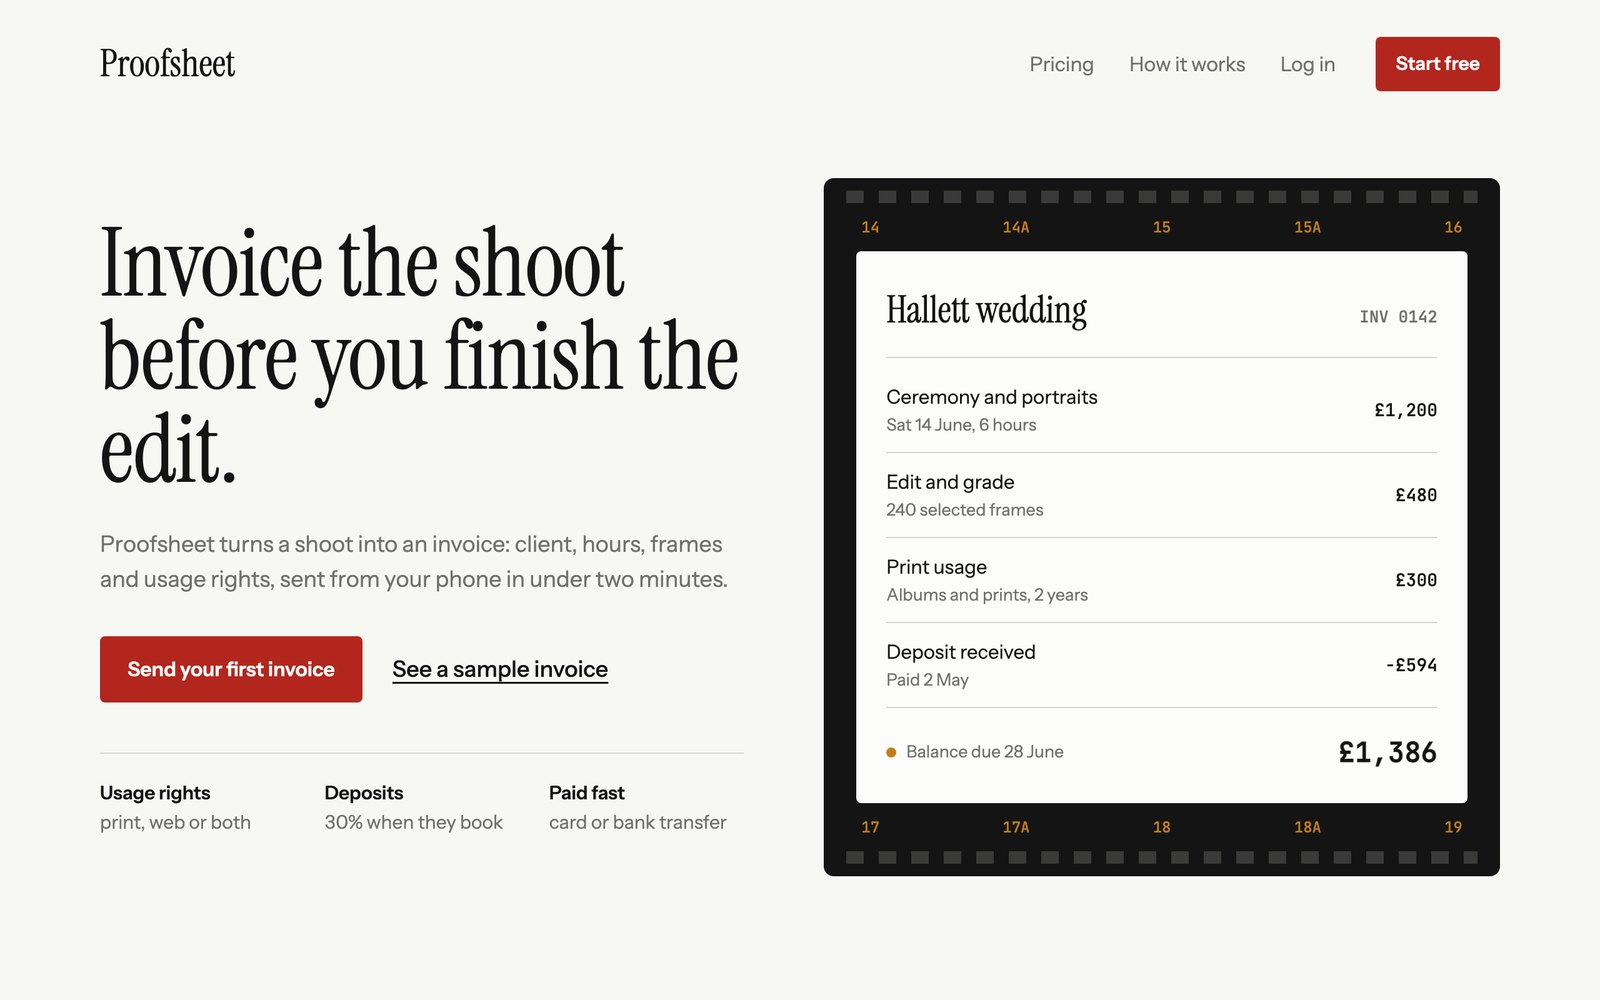
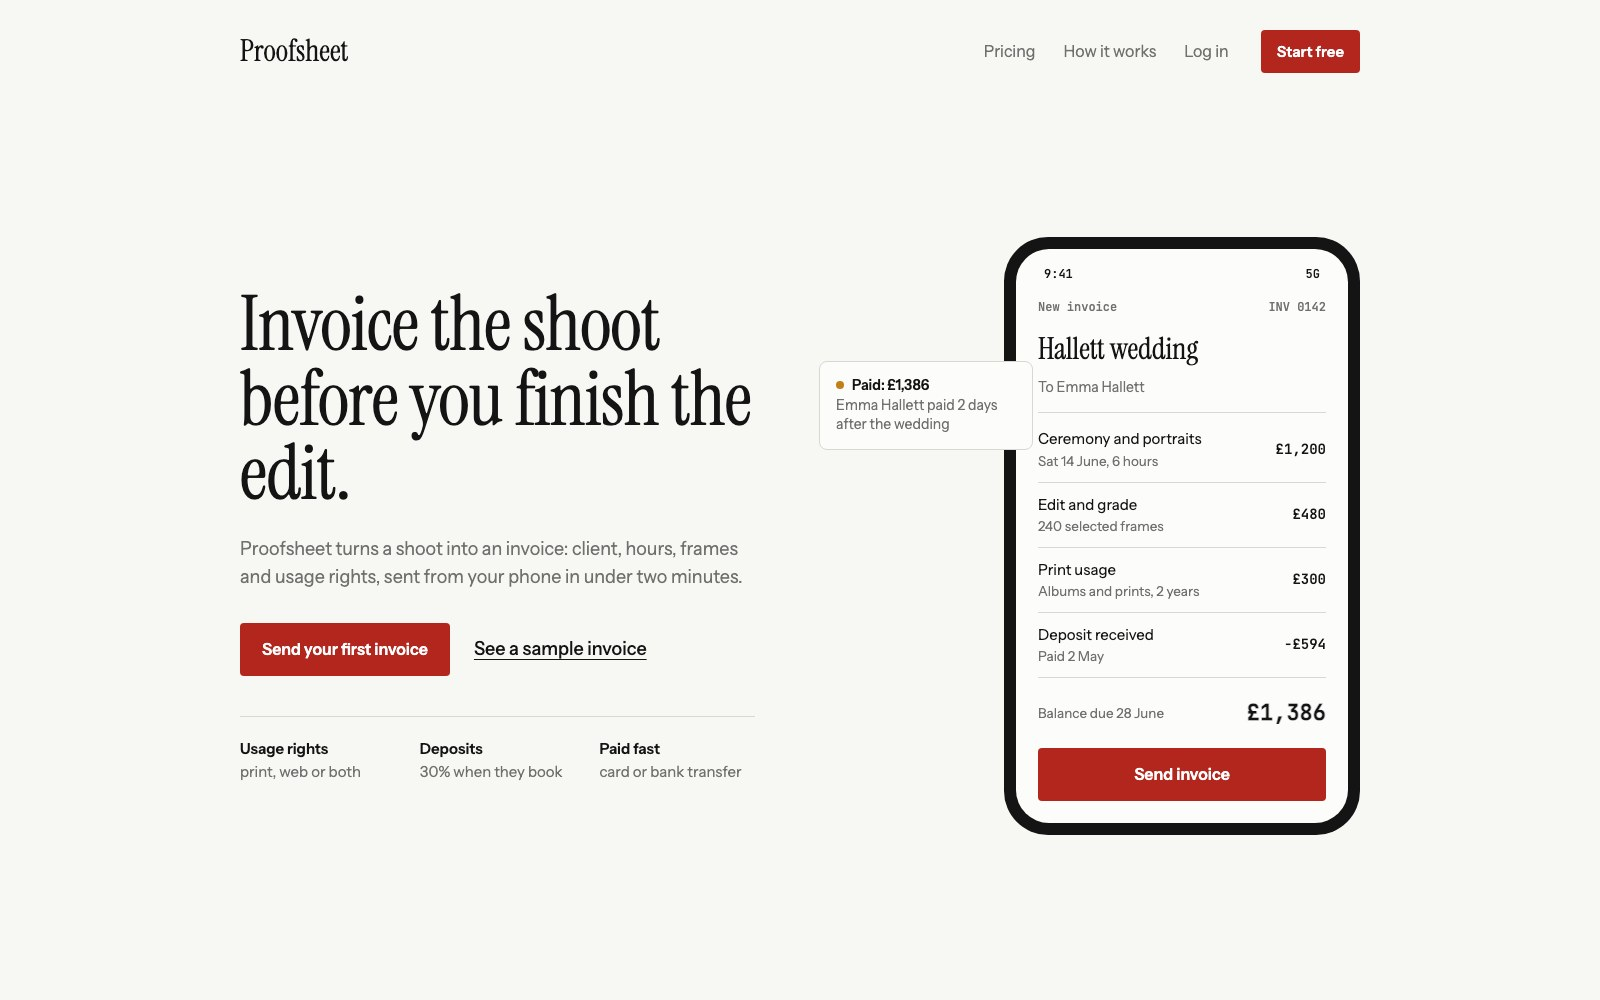
Show the invoice on a phone instead of a film strip
The headline promises an invoice sent from your phone, so the page now
shows exactly that: the invoice ready to send, and the payment coming back.

diff --git a/examples/photographer-invoicing/after.html b/examples/photographer-invoicing/after.html
@@ -23,30 +23,33 @@
     transition:transform var(--dur-quick) var(--ease-out),background-color var(--dur-quick) var(--ease-out)}
   .btn:hover{background:#8F1E18}.btn:active{transform:scale(.97)}
   .btn.small{padding:10px 16px;font-size:15px}
-  main{max-width:1200px;margin:0 auto;padding:40px 40px 64px;display:grid;grid-template-columns:1fr 1.05fr;gap:64px;align-items:center}
+  main{max-width:1200px;min-height:calc(100vh - 101px);margin:0 auto;padding:24px 40px 56px;display:grid;grid-template-columns:1fr 1.05fr;gap:64px;align-items:center}
   h1{font-family:var(--font-display);font-weight:400;font-size:76px;line-height:.98;letter-spacing:-.01em}
   .lede{margin-top:24px;max-width:30em;color:var(--muted)}
   .actions{margin-top:32px;display:flex;align-items:center;gap:24px}
   .actions a.text{font-weight:500;text-underline-offset:4px}
   ul.facts{list-style:none;padding:0;margin-top:40px;display:grid;grid-template-columns:repeat(3,1fr);gap:24px;font-size:15px;color:var(--muted);border-top:1px solid var(--line);padding-top:20px}
   ul.facts b{display:block;color:var(--ink);font-weight:600}
-  .sheet{background:var(--ink);border-radius:var(--radius-md);padding:30px 26px;position:relative}
-  .sheet::before,.sheet::after{content:"";position:absolute;left:18px;right:18px;height:10px;
-    background:repeating-linear-gradient(90deg,#3A3A38 0 14px,transparent 14px 26px)}
-  .sheet::before{top:10px}.sheet::after{bottom:10px}
-  .frames{display:flex;justify-content:space-between;font-family:var(--font-mono);font-size:12px;color:var(--accent-2);padding:0 4px 10px}
-  .invoice{background:var(--surface);border-radius:var(--radius-sm);padding:24px}
-  .inv-head{display:flex;justify-content:space-between;align-items:baseline;border-bottom:1px solid var(--line);padding-bottom:14px}
+  .stage{position:relative;display:flex;justify-content:flex-end;padding:8px 0}
+  .phone{width:356px;background:var(--ink);border-radius:44px;padding:12px}
+  .screen{background:var(--surface);border-radius:33px;padding:16px 22px 22px}
+  .statusbar{display:flex;justify-content:space-between;font-family:var(--font-mono);font-size:12px;color:var(--ink);padding:0 6px 14px}
+  .kicker{display:flex;justify-content:space-between;font-family:var(--font-mono);font-size:12px;color:var(--muted)}
+  .to{font-size:14px;color:var(--muted);margin-top:4px}
+  .send{display:block;text-align:center;margin-top:18px}
+  .note{position:absolute;left:0;top:132px;width:214px;background:var(--surface);border:1px solid var(--line);border-radius:var(--radius-md);padding:14px 16px;font-size:14px;line-height:1.4}
+  .note b{display:block;font-weight:600}
+  .note span{color:var(--muted)}
+  .note b::before{content:"";display:inline-block;width:8px;height:8px;border-radius:50%;background:var(--accent-2);margin-right:8px;vertical-align:1px}
+  .inv-head{border-bottom:1px solid var(--line);padding:10px 0 14px}
   .inv-head h2{font-family:var(--font-display);font-weight:400;font-size:30px}
-  .inv-head span{font-family:var(--font-mono);font-size:13px;color:var(--muted)}
-  table{width:100%;border-collapse:collapse;margin-top:8px;font-size:15.5px}
-  td{padding:11px 0;border-bottom:1px solid var(--line)}
+    table{width:100%;border-collapse:collapse;margin-top:4px;font-size:15px}
+  td{padding:10px 0;border-bottom:1px solid var(--line)}
   td.amt{text-align:right;font-family:var(--font-mono);font-size:14px}
   td small{display:block;color:var(--muted);font-size:13.5px}
   .total{display:flex;justify-content:space-between;align-items:center;margin-top:18px}
   .total strong{font-family:var(--font-mono);font-size:22px}
   .status{font-size:13.5px;color:var(--muted)}
-  .status::before{content:"";display:inline-block;width:8px;height:8px;border-radius:50%;background:var(--accent-2);margin-right:8px}
   @media (max-width:900px){main{grid-template-columns:1fr}h1{font-size:52px}nav{display:none}ul.facts{grid-template-columns:1fr}}
   @media (prefers-reduced-motion:reduce){*{transition-duration:.01ms!important}}
 </style>
@@ -68,19 +71,23 @@
       <li><b>Paid fast</b>card or bank transfer</li>
     </ul>
   </section>
-  <section class="sheet" aria-label="Example invoice">
-    <div class="frames"><span>14</span><span>14A</span><span>15</span><span>15A</span><span>16</span></div>
-    <div class="invoice">
-      <div class="inv-head"><h2>Hallett wedding</h2><span>INV 0142</span></div>
-      <table>
-        <tr><td>Ceremony and portraits<small>Sat 14 June, 6 hours</small></td><td class="amt">£1,200</td></tr>
-        <tr><td>Edit and grade<small>240 selected frames</small></td><td class="amt">£480</td></tr>
-        <tr><td>Print usage<small>Albums and prints, 2 years</small></td><td class="amt">£300</td></tr>
-        <tr><td>Deposit received<small>Paid 2 May</small></td><td class="amt">−£594</td></tr>
-      </table>
-      <div class="total"><span class="status">Balance due 28 June</span><strong>£1,386</strong></div>
+  <section class="stage" aria-label="An invoice on the phone, ready to send">
+    <div class="phone">
+      <div class="screen">
+        <div class="statusbar"><span>9:41</span><span>5G</span></div>
+        <div class="kicker"><span>New invoice</span><span>INV 0142</span></div>
+        <div class="inv-head"><h2>Hallett wedding</h2><p class="to">To Emma Hallett</p></div>
+        <table>
+          <tr><td>Ceremony and portraits<small>Sat 14 June, 6 hours</small></td><td class="amt">£1,200</td></tr>
+          <tr><td>Edit and grade<small>240 selected frames</small></td><td class="amt">£480</td></tr>
+          <tr><td>Print usage<small>Albums and prints, 2 years</small></td><td class="amt">£300</td></tr>
+          <tr><td>Deposit received<small>Paid 2 May</small></td><td class="amt">−£594</td></tr>
+        </table>
+        <div class="total"><span class="status">Balance due 28 June</span><strong>£1,386</strong></div>
+        <a class="btn send" href="/start">Send invoice</a>
+      </div>
     </div>
-    <div class="frames" style="padding:10px 4px 0"><span>17</span><span>17A</span><span>18</span><span>18A</span><span>19</span></div>
+    <p class="note"><b>Paid: £1,386</b><span>Emma Hallett paid 2 days after the wedding</span></p>
   </section>
 </main>
 </body>

diff --git a/examples/photographer-invoicing/DESIGN.md b/examples/photographer-invoicing/DESIGN.md
@@ -53,9 +53,9 @@ components:
     textColor: "{colors.ink}"
     rounded: "{rounded.sm}"
     padding: 24px
-  film-strip:
+  phone:
     backgroundColor: "{colors.ink}"
-    textColor: "{colors.accent-2}"
+    rounded: "{rounded.md}"
 ---
 
 ## Overview
@@ -65,27 +65,27 @@ Audience: wedding and portrait photographers who hate spreadsheets and work from
 Job: send the first invoice for a shoot in under two minutes.
 World: darkroom safelight, contact sheet, grey card, film edge, frame numbers.
 
-Direction: derived with `derive.py` from the darkroom. Paper-white base, contact-sheet black, one safelight red for actions, film-edge amber only for frame numbers.
+Direction: derived with `derive.py` from the darkroom. Paper-white base, contact-sheet black, one safelight red for actions, film-edge amber only for status dots.
 
 ## Colors
 
 - **base (#F7F7F3):** page, like photo paper.
-- **ink (#141414):** text and the film strip.
+- **ink (#141414):** text and the phone.
 - **muted (#70706F):** secondary text.
 - **accent (#B3261E):** safelight red, primary actions only.
-- **accent-2 (#C27E19):** film-edge amber, frame numbers only.
+- **accent-2 (#C27E19):** film-edge amber, status dots only.
 
 ## Typography
 
-Instrument Serif for the headline only. Instrument Sans for everything else. JetBrains Mono for frame numbers and amounts.
+Instrument Serif for the headline only. Instrument Sans for everything else. JetBrains Mono for invoice numbers and amounts.
 
 ## Layout
 
-Product proof: the headline on the left, the real product (an invoice on a contact sheet) on the right.
+Product proof: the headline on the left, the real product on the right: the invoice on a phone, ready to send, and the payment it brings back.
 
 ## Components
 
-Primary button, the invoice, the film strip. The invoice is the one memorable element.
+Primary button, the invoice, the phone. The invoice on the phone is the one memorable element: it is the promise of the headline, shown.
 
 ## Do's and Don'ts
 

diff --git a/README.md b/README.md
@@ -30,7 +30,7 @@
 
 | Typical AI first draft | Built with ship-beautiful-ui |
 |:---:|:---:|
-| <img src="assets/readme/before.jpg" alt="Proofsheet, an invoicing tool for photographers, styled the default AI way: dark page, centered purple-to-blue gradient headline, emoji chips and a glowing glass card" width="420"> | <img src="assets/readme/after.jpg" alt="The same page and words redesigned with ship-beautiful-ui: a paper-white page with a serif headline 'Invoice the shoot before you finish the edit' and the real product, an invoice laid out on a contact sheet with amber frame numbers" width="420"> |
+| <img src="assets/readme/before.jpg" alt="Proofsheet, an invoicing tool for photographers, styled the default AI way: dark page, centered purple-to-blue gradient headline, emoji chips and a glowing glass card" width="420"> | <img src="assets/readme/after.jpg" alt="The same page and words redesigned with ship-beautiful-ui: a paper-white page with a serif headline 'Invoice the shoot before you finish the edit' and the real product: the invoice on a phone, ready to send, next to a 'paid' notification" width="420"> |
 
 ---
 

diff --git a/examples/photographer-invoicing/README.md b/examples/photographer-invoicing/README.md
@@ -21,10 +21,10 @@ One page, two designs. Same product, same words, same content: only the design c
    ```bash
    python3 scripts/derive.py --words "darkroom safelight, contact sheet, grey card, film edge"
    ```
-   Paper-white base, contact-sheet black, safelight red for actions, film-edge amber for frame numbers.
+   Paper-white base, contact-sheet black, safelight red for actions, film-edge amber for status dots.
    Type: the `instrument` pairing (Instrument Serif + Instrument Sans). Layout: `product-proof`.
 2. **Lock:** [`DESIGN.md`](DESIGN.md), checked with `lint_design.py` (0 errors).
-3. **Build:** the one memorable element is the product itself, an invoice laid out on a contact sheet. No illustrations, no card grid, no invented numbers.
+3. **Build:** the one memorable element is the product itself: the invoice on a phone, ready to send, and the payment it brings back. No illustrations, no card grid, no invented numbers.
 4. **Motion:** button press only, with a reduced-motion fallback.
 5. **Review:** `detect.py after.html` → 0 findings.
 
